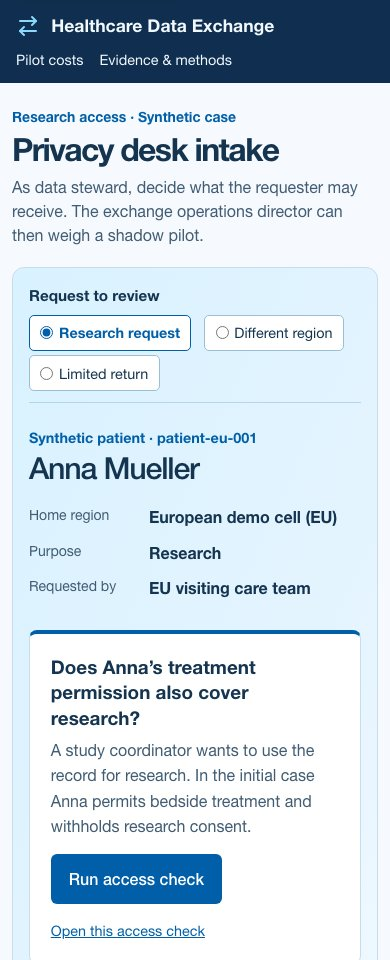
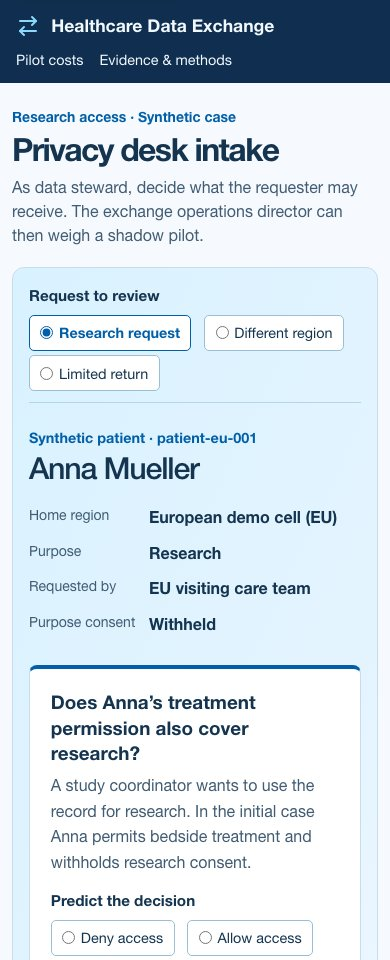
Predict a release decision and replay patient consent events

Changed region(s): [[0.0615, 0.625, 0.9231, 1.0]]

diff --git a/web/src/components/clinical/pilot-case.tsx b/web/src/components/clinical/pilot-case.tsx
@@ -1,10 +1,11 @@
 "use client";
 
 import Link from "next/link";
-import { useState } from "react";
+import { useState, useSyncExternalStore } from "react";
 import type { CredentialProfile } from "@/lib/api";
-import { DEMO_PATIENTS, getDemoConsent, simulatePatient, type DemoPurpose } from "@/lib/demo";
-import { requesterPresets } from "./use-access-context";
+import { DEMO_EVENT, DEMO_PATIENTS, getDemoConsent, resetDemo, simulateConsent, simulatePatient, type DemoPurpose } from "@/lib/demo";
+import { resetSelectedPatient } from "./patient-selector";
+import { requesterPresets, resetAccessContext } from "./use-access-context";
 import { ArrowRightLeft, Files, Globe2, KeyRound, Users } from "lucide-react";
 import { WalkthroughLauncher } from "@/components/walkthrough/guided-walkthrough";
 import styles from "./pilot-case.module.css";
@@ -54,22 +55,70 @@ export function CasePage() {
   );
 }
 
+const possibleOutcomes = ["Deny access", "Allow access", "Limit fields"] as const;
+type Outcome = typeof possibleOutcomes[number];
+const fixtureFields = ["id", "resourceType", "name", "birthDate", "gender"];
+
+function checkRequest(patientId: string, purpose: DemoPurpose, requester: CredentialProfile) {
+  const result = simulatePatient(patientId, purpose, requester);
+  const fields = result.ok && Array.isArray(result.data.min_necessary_fields)
+    ? result.data.min_necessary_fields.filter((field): field is string => typeof field === "string")
+    : [];
+  const outcome: Outcome = !result.ok ? "Deny access" : result.data.exception_label === "cross_bloc_derivative" ? "Limit fields" : "Allow access";
+  return { fields, outcome, message: result.ok ? "The fixture permits these fields." : result.error };
+}
+
+type Check = ReturnType<typeof checkRequest>;
+type Lesson = { prediction: Outcome; first: Check; event?: { before: Check; after: Check; granted: boolean } };
+
+function subscribeToConsent(listener: () => void) {
+  window.addEventListener(DEMO_EVENT, listener);
+  return () => window.removeEventListener(DEMO_EVENT, listener);
+}
+
+function FieldReceipt({ title, check }: { title: string; check: Check }) {
+  return <div className={styles.receipt}>
+    <h4>{title} · {check.outcome}</h4>
+    <p><b>Released</b> {check.fields.join(", ") || "None"}</p>
+    <p><b>Withheld</b> {fixtureFields.filter(field => !check.fields.includes(field)).join(", ") || "None"}</p>
+  </div>;
+}
+
 function ResearchRequest() {
   const [selection, setSelection] = useState(0);
-  const [trace, setTrace] = useState<{ consent: boolean; fields: string[]; message: string } | null>(null);
+  const [prediction, setPrediction] = useState<Outcome | null>(null);
+  const [lesson, setLesson] = useState<Lesson | null>(null);
   const scenario = comparisons[selection];
   const patient = DEMO_PATIENTS.find(item => item.id === "patient-eu-001");
+  const consent = useSyncExternalStore<boolean | null>(subscribeToConsent,
+    () => getDemoConsent("patient-eu-001", scenario.purpose), () => null);
+  const trace = lesson?.event?.after ?? lesson?.first;
   if (!patient) return null;
   const team = requesterPresets.find(item => item.value === scenario.requester);
   const query = new URLSearchParams({ patient: patient.id, purpose: scenario.purpose, requester: scenario.requester });
   function runCheck() {
-    if (!patient) return;
-    const consent = getDemoConsent(patient.id, scenario.purpose);
-    const result = simulatePatient(patient.id, scenario.purpose, scenario.requester);
-    const fields = result.ok && Array.isArray(result.data.min_necessary_fields)
-      ? result.data.min_necessary_fields.filter((field): field is string => typeof field === "string")
-      : [];
-    setTrace({ consent, fields, message: result.ok ? "Access allowed" : result.error });
+    if (!patient || !prediction) return;
+    setLesson({ prediction, first: checkRequest(patient.id, scenario.purpose, scenario.requester) });
+  }
+  function replayConsent() {
+    if (!patient || !lesson || !trace || consent === null) return;
+    const granted = !consent;
+    const update = simulateConsent(patient.id, scenario.purpose, granted);
+    if (update.ok) {
+      const after = checkRequest(patient.id, scenario.purpose, scenario.requester);
+      setLesson({ ...lesson, event: { before: trace, after, granted } });
+    }
+  }
+  function selectRequest(index: number) {
+    setSelection(index);
+    setPrediction(null);
+    setLesson(null);
+  }
+  function resetSession() {
+    resetSelectedPatient();
+    resetAccessContext();
+    resetDemo();
+    selectRequest(0);
   }
   return (
     <section id="research-request" className={styles.case} aria-label="Access request intake">
@@ -77,7 +126,7 @@ function ResearchRequest() {
         <legend>Request to review</legend>
         <div className={styles.options}>{comparisons.map((item, index) =>
           <label key={item.label}>
-            <input type="radio" name="request-scenario" checked={index === selection} onChange={() => { setSelection(index); setTrace(null); }} />
+            <input type="radio" name="request-scenario" checked={index === selection} onChange={() => selectRequest(index)} />
             {item.label}
           </label>
         )}</div>
@@ -89,6 +138,7 @@ function ResearchRequest() {
           <div><dt>Home region</dt><dd>{patient.organization} ({patient.region})</dd></div>
           <div><dt>Purpose</dt><dd>{purposeLabels[scenario.purpose]}</dd></div>
           <div><dt>Requested by</dt><dd>{team?.label}</dd></div>
+          <div><dt>Purpose consent</dt><dd>{consent === null ? "Loading preference" : consent ? "Granted" : "Withheld"}</dd></div>
         </dl>
       </div>
       <div className={styles.request}>
@@ -96,21 +146,45 @@ function ResearchRequest() {
           <h3>{scenario.question}</h3>
           <p>{scenario.detail}</p>
         </div>
+        <fieldset className={styles.predict}>
+          <legend>Predict the decision</legend>
+          <div className={styles.options}>{possibleOutcomes.map(outcome =>
+            <label key={outcome}><input type="radio" name="prediction" checked={outcome === prediction}
+              onChange={() => { setPrediction(outcome); setLesson(null); }} />{outcome}</label>
+          )}</div>
+        </fieldset>
         <div className={styles.requestActions}>
-          <button className="primary-link" type="button" onClick={runCheck}>Run access check</button>
+          <button className="primary-link" type="button" onClick={runCheck} disabled={!prediction || consent === null}>Run access check</button>
           <Link href={`/patients?${query}`}>Open this access check</Link>
         </div>
       </div>
       <figure className={styles.trace} aria-label="Synthetic access decision path" aria-live="polite">
-        <figcaption>Decision path</figcaption>
+        <figcaption>Decision path{lesson?.event ? lesson.event.granted ? " after Anna’s grant" : " after Anna’s withdrawal" : ""}</figcaption>
         <ol>
           <li><Users aria-hidden="true" /><span>Requester</span><strong>{team?.label}</strong></li>
-          <li><KeyRound aria-hidden="true" /><span>Purpose consent</span><strong>{trace ? trace.consent ? "Granted" : "Withheld" : "Awaiting check"}</strong></li>
+          <li><KeyRound aria-hidden="true" /><span>Purpose consent</span><strong>{consent === null ? "Loading" : consent ? "Granted" : "Withheld"}</strong></li>
           <li><Globe2 aria-hidden="true" /><span>Region</span><strong>{scenario.requester.startsWith("us-") ? "US team · EU record" : "EU team · EU record"}</strong></li>
           <li><Files aria-hidden="true" /><span>Returned fields</span><strong>{trace ? trace.fields.length ? trace.fields.join(", ") : "None" : "Awaiting check"}</strong></li>
         </ol>
-        {trace && <p><strong>Result</strong> {trace.message}</p>}
+        {lesson && <p><strong>{lesson.prediction === lesson.first.outcome ? "Prediction matched." : "Prediction differed."}</strong> For the first check, you chose {lesson.prediction.toLowerCase()} and the model returned {lesson.first.outcome.toLowerCase()}. {lesson.event ? "The diagram shows the latest check after Anna’s event." : lesson.first.message}</p>}
       </figure>
+      {lesson && <section className={styles.replay} aria-labelledby="patient-event">
+        <h3 id="patient-event">What if Anna changes her consent?</h3>
+        <p>Replay a synthetic patient event. Anna chooses whether to grant or withdraw consent for {purposeLabels[scenario.purpose].toLowerCase()}. As steward, check the same team and purpose again.</p>
+        <button type="button" className={styles.eventButton} onClick={replayConsent}>{consent ? "Replay Anna’s withdrawal" : "Replay Anna’s grant"}</button>
+        <div className={styles.receipts} aria-live="polite">
+          {lesson.event ? <>
+            <FieldReceipt title="Before the event" check={lesson.event.before} />
+            <FieldReceipt title={lesson.event.granted ? "After Anna’s grant" : "After Anna’s withdrawal"} check={lesson.event.after} />
+            <p>{lesson.event.after.message}</p>
+          </> : <FieldReceipt title="Current check" check={lesson.first} />}
+        </div>
+      </section>}
+      <details className={styles.session}>
+        <summary>Session settings and reset</summary>
+        <p>Consent and activity carry into the technical workspace and survive a reload in this tab when session storage is available. Predictions and comparisons clear when you leave or reload. Reset restores the original synthetic consents and clears activity and walkthrough progress.</p>
+        <button type="button" className={styles.eventButton} onClick={resetSession}>Reset tab demo</button>
+      </details>
     </section>
   );
 }

diff --git a/web/tests/e2e/demo.spec.ts b/web/tests/e2e/demo.spec.ts
@@ -33,7 +33,10 @@ test.describe("Static synthetic demo", () => {
       await expect(intake.locator("dd").nth(1)).toHaveText(new RegExp(expectedPurpose, "i"));
       const expectedTeam = requester === "us-clinician" ? "US care team · limited cross-region access" : requester === "us-home" ? "US home care team" : "EU visiting care team";
       await expect(intake.locator("dd").nth(2)).toHaveText(expectedTeam);
+      await expect(page.getByRole("button", { name: "Run access check" })).toBeDisabled();
+      await intake.getByRole("radio", { name: "Limit fields", exact: true }).check();
       await page.getByRole("button", { name: "Run access check" }).click();
+      await expect(intake.getByText(purpose === "derivative" ? "Prediction matched." : "Prediction differed.", {exact: true})).toBeVisible();
       const flow = intake.getByRole("figure", { name: "Synthetic access decision path" });
       await expect(flow.getByRole("listitem").last()).toContainText(purpose === "derivative" ? "id, resourceType" : "None");
       await page.getByRole("link", { name: "Open this access check" }).click();
@@ -42,6 +45,40 @@ test.describe("Static synthetic demo", () => {
       await page.getByRole("button", { name: "Check access", exact: true }).click();
       await expect(page.getByRole("heading", { name: outcome, exact: true })).toBeVisible();
     }
+  });
+
+  test("patient events replay the same request, preserve tab consent and restore baseline on reset", async ({ page }) => {
+    await page.goto("./");
+    const predict = page.getByRole("radio", { name: "Deny access", exact: true });
+    const run = page.getByRole("button", { name: "Run access check" });
+    await predict.check();
+    await run.click();
+    await page.getByRole("button", { name: "Replay Anna’s grant" }).click();
+    await expect(page.getByRole("heading", { name: "Before the event · Deny access" })).toBeVisible();
+    const allowed = page.getByRole("heading", { name: "After Anna’s grant · Allow access" }).locator("..");
+    await expect(allowed).toContainText("Withheld None");
+    await expect(allowed).toContainText("name, birthDate, gender");
+    await page.reload();
+    await expect(run).toBeDisabled();
+    await expect(page.locator("#research-request dd").last()).toHaveText("Granted");
+    await predict.check();
+    await run.click();
+    await page.getByRole("button", { name: "Replay Anna’s withdrawal" }).click();
+    await expect(page.getByRole("heading", { name: "Before the event · Allow access" })).toBeVisible();
+    await expect(page.getByRole("heading", { name: "After Anna’s withdrawal · Deny access" }).locator("..")).toContainText("Released None");
+    await page.getByRole("button", { name: "Replay Anna’s grant" }).click();
+    await page.getByText("Session settings and reset").click();
+    await page.getByRole("button", { name: "Reset tab demo" }).click();
+    await expect(run).toBeDisabled();
+    await expect(page.locator("#research-request dd").last()).toHaveText("Withheld");
+
+    await page.getByRole("radio", { name: "Different region" }).check();
+    await predict.check();
+    await run.click();
+    await page.getByRole("button", { name: "Replay Anna’s withdrawal" }).click();
+    await page.getByRole("button", { name: "Replay Anna’s grant" }).click();
+    await expect(page.getByRole("heading", { name: "After Anna’s grant · Deny access" })).toBeVisible();
+    await expect(page.getByText(/different regions/, {exact: false}).first()).toBeVisible();
   });
 
   test("pilot worksheet distinguishes staffing value, shortfall and incomplete inputs", async ({ page }) => {

diff --git a/web/src/components/clinical/pilot-case.module.css b/web/src/components/clinical/pilot-case.module.css
@@ -94,3 +94,19 @@
   .trace li:nth-child(2)::before { display: none; }
   .tools { grid-template-columns: 1fr; }
 }
+
+.predict { margin-top: .85rem; }
+.requestActions button:disabled { opacity: .55; cursor: default; }
+.replay, .session { grid-column: 1 / -1; }
+.replay { border-top: 1px solid #a7cee4; padding-top: 1rem; }
+.replay h3 { font-size: 1.15rem; font-weight: 650; }
+.replay > p, .session p { max-width: 75ch; line-height: 1.55; margin: .4rem 0; }
+.eventButton { border: 1px solid var(--primary); border-radius: 5px; color: var(--primary); background: var(--card); padding: .55rem .8rem; font-weight: 600; margin-top: .5rem; min-height: 44px; }
+.receipts { display: grid; grid-template-columns: repeat(2,minmax(0,1fr)); gap: .65rem; margin-top: .75rem; }
+.receipt { border: 1px solid var(--border); border-radius: 6px; background: var(--card); padding: .75rem; }
+.receipt h4 { color: var(--foreground); font-weight: 650; margin-bottom: .35rem; }
+.receipt p { color: var(--muted-foreground); font-size: .95rem; line-height: 1.55; }
+.receipts > p { grid-column: 1/-1; color: var(--muted-foreground); }
+.session { font-size: .9rem; color: var(--muted-foreground); }
+.session summary { color: var(--primary); font-weight: 600; }
+@media(max-width:650px) { .receipts { grid-template-columns: 1fr; } }

diff --git a/README.md b/README.md
@@ -22,7 +22,7 @@ certification.
 
 ## Try the privacy desk case
 
-A study coordinator asks the exchange’s data steward for Anna Mueller’s synthetic record. The bedside team uses treatment access for a different purpose. Choose the research request, switch the requesting region, or inspect the limited derivative that another team can obtain. Use **Run access check** to trace the team, consent, region and returned fields. **Open this access check** carries the same request into the full workspace. [Open the research request](https://safetymp.github.io/Healthcare-Data-Exchange/#research-request)
+A study coordinator asks the exchange’s data steward for Anna Mueller’s synthetic record. The bedside team uses treatment access for a different purpose. Choose the research request, switch the requesting region, or inspect the limited derivative that another team can obtain. Predict whether the model will deny access, allow access or limit fields, then choose **Run access check**. Replay Anna’s grant or withdrawal to compare the fields released and withheld with the original decision. **Reset tab demo** restores the initial synthetic state. **Open this access check** carries the same request into the full workspace. [Open the research request](https://safetymp.github.io/Healthcare-Data-Exchange/#research-request)
 
 The exchange director can keep the manual desk, introduce a checklist, or test a policy check alongside staff decisions. The worksheet estimates how many reviewer minutes per eligible request would cover integration, training and support. Its starting values are illustrative. Before expanding, the steward checks whether a shadow recommendation would release an unauthorized field or hold an eligible request. The operations director then compares the time saved against the better manual or checklist baseline and decides whether the team could reuse that time. [Explore the pilot worksheet](https://safetymp.github.io/Healthcare-Data-Exchange/#pilot-costs)
 
